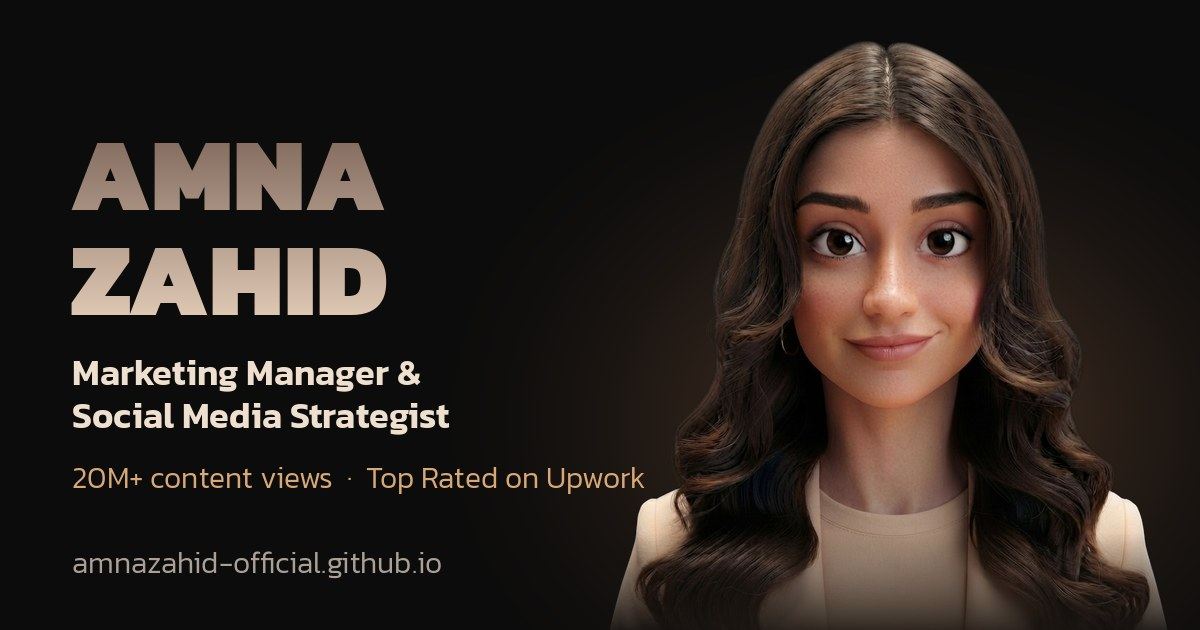
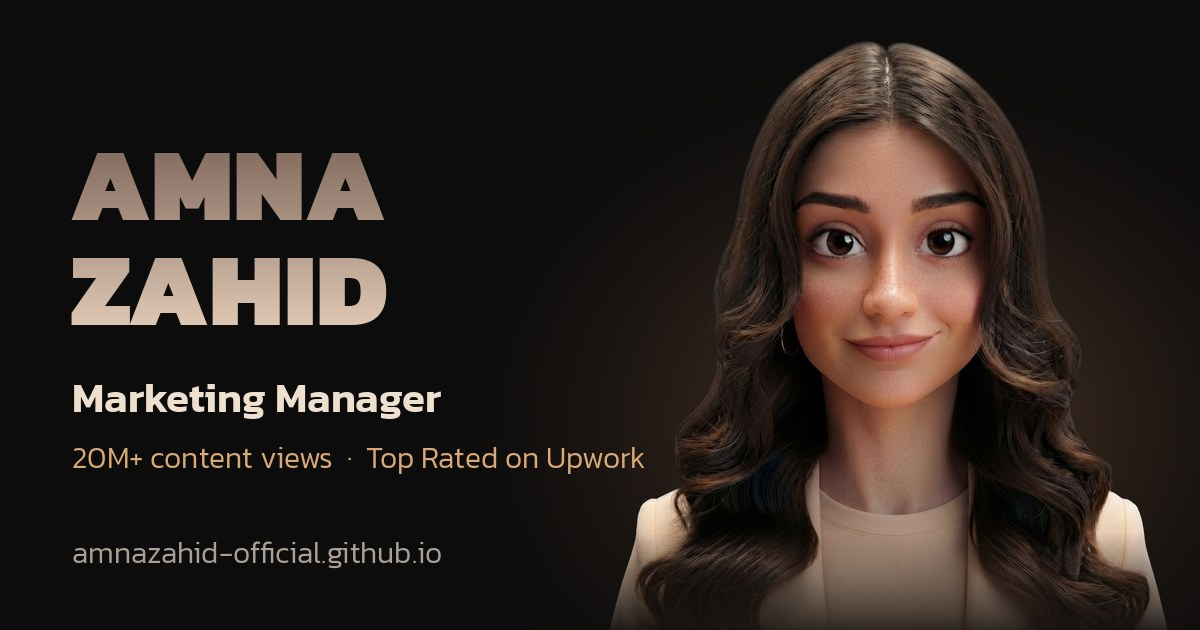
Add files via upload

diff --git a/index.html b/index.html
@@ -2,11 +2,11 @@
 <html lang="en">
 <head>
 <meta charset="utf-8">
-<meta http-equiv="Content-Security-Policy" content="default-src 'none'; script-src 'sha256-1I0uAlWUaR2QZERYKp/Zd4XrJaCDEXUQQWTJ8vAlCd8=' https://www.googletagmanager.com https://www.clarity.ms https://*.clarity.ms; style-src 'self' 'unsafe-inline'; img-src 'self' data: blob: https://*.google-analytics.com https://www.googletagmanager.com https://*.clarity.ms https://c.bing.com; media-src 'self' data: blob:; font-src 'self' data:; connect-src https://formspree.io https://*.google-analytics.com https://*.analytics.google.com https://www.googletagmanager.com https://*.clarity.ms https://c.bing.com; form-action https://formspree.io; base-uri 'none'; object-src 'none'; manifest-src 'self'; upgrade-insecure-requests">
+<meta http-equiv="Content-Security-Policy" content="default-src 'none'; script-src 'sha256-Y0BWoqDh/VLHuUh14hzEaY0t2KPYEmKasSNTJizVwv0=' https://www.googletagmanager.com https://www.clarity.ms https://*.clarity.ms; style-src 'self' 'unsafe-inline'; img-src 'self' data: blob: https://*.google-analytics.com https://www.googletagmanager.com https://*.clarity.ms https://c.bing.com; media-src 'self' data: blob:; font-src 'self' data:; connect-src https://formspree.io https://*.google-analytics.com https://*.analytics.google.com https://www.googletagmanager.com https://*.clarity.ms https://c.bing.com; form-action https://formspree.io; base-uri 'none'; object-src 'none'; manifest-src 'self'; upgrade-insecure-requests">
 <meta name="referrer" content="strict-origin-when-cross-origin">
 <meta name="viewport" content="width=device-width, initial-scale=1, viewport-fit=cover">
-<title>Amna Zahid | Social Media Marketing Manager &amp; Strategist</title>
-<meta name="description" content="Amna Zahid is a social media marketing manager helping brands across the US and Asia turn reach into ROI: Instagram growth, viral short-form video, LinkedIn personal branding, and lead generation funnels. 20M+ content views, Top Rated on Upwork. Book a free consultation.">
+<title>Amna Zahid | Marketing Manager &amp; Sales Specialist</title>
+<meta name="description" content="Amna Zahid is a marketing manager and sales specialist helping brands, founders, and B2B teams across the US, Europe, and Asia turn reach into revenue: social media marketing, short-form video, Meta ads, email marketing, sales outreach, HubSpot sales funnels, CRM management, and lead generation. 20M+ content views, Top Rated on Upwork.">
 <meta name="author" content="Amna Zahid">
 <meta name="robots" content="index, follow, max-image-preview:large">
 <link rel="canonical" href="https://amnazahid-official.github.io/">
@@ -15,23 +15,23 @@
 <link rel="apple-touch-icon" href="favicon.png">
 <meta property="og:type" content="profile">
 <meta property="og:site_name" content="Amna Zahid">
-<meta property="og:title" content="Amna Zahid | Social Media Marketing Manager &amp; Strategist">
-<meta property="og:description" content="I turn reach into ROI: growth strategy, viral short-form video, LinkedIn founder branding, and lead generation. 20M+ content views. Book a free consultation.">
+<meta property="og:title" content="Amna Zahid | Marketing Manager &amp; Sales Specialist">
+<meta property="og:description" content="Marketing manager and sales specialist turning reach into revenue: social media, short-form video, Meta ads, email marketing, sales outreach, HubSpot funnels, and lead generation. 20M+ content views. Book a free consultation.">
 <meta property="og:url" content="https://amnazahid-official.github.io/">
 <meta property="og:image" content="https://amnazahid-official.github.io/og-image.jpg">
 <meta property="og:image:width" content="1200">
 <meta property="og:image:height" content="630">
-<meta property="og:image:alt" content="Amna Zahid, Marketing Manager: 20M+ content views">
+<meta property="og:image:alt" content="Amna Zahid, Marketing Manager: 20M+ content views, Top Rated on Upwork">
 <meta property="profile:first_name" content="Amna">
 <meta property="profile:last_name" content="Zahid">
 <meta name="twitter:card" content="summary_large_image">
-<meta name="twitter:title" content="Amna Zahid | Social Media Marketing Manager &amp; Strategist">
-<meta name="twitter:description" content="I turn reach into ROI: growth strategy, viral short-form video, LinkedIn founder branding, and lead generation. 20M+ content views.">
+<meta name="twitter:title" content="Amna Zahid | Marketing Manager &amp; Sales Specialist">
+<meta name="twitter:description" content="Marketing manager and sales specialist turning reach into revenue: social media, short-form video, Meta ads, email marketing, sales outreach, HubSpot funnels, and lead generation. 20M+ content views. Book a free consultation.">
 <meta name="twitter:image" content="https://amnazahid-official.github.io/og-image.jpg">
 <script type="application/ld+json">
 {"@context":"https://schema.org","@graph":[
- {"@type":"Person","@id":"https://amnazahid-official.github.io/#amna","name":"Amna Zahid","jobTitle":"Social Media Marketing Manager","alternateName":"Amna Zahid Marketing","description":"Marketing manager and social media strategist helping brands across the US and Asia turn reach into ROI.","url":"https://amnazahid-official.github.io/","image":"https://amnazahid-official.github.io/og-image.jpg","address":{"@type":"PostalAddress","addressCountry":"PK"},"sameAs":["https://www.linkedin.com/in/-amnazahid","https://www.upwork.com/freelancers/~013aa8f97419e88af4"],"knowsAbout":["Social media marketing","Instagram growth","LinkedIn strategy","Personal branding","Short-form video","Content strategy","Copywriting","Brand positioning","Meta Ads","Email marketing","Sales outreach","Lead generation","Influencer marketing","UI/UX design","Marketing analytics"]},
- {"@type":"ProfessionalService","@id":"https://amnazahid-official.github.io/#service","name":"Amna Zahid Marketing","url":"https://amnazahid-official.github.io/","image":"https://amnazahid-official.github.io/og-image.jpg","founder":{"@id":"https://amnazahid-official.github.io/#amna"},"areaServed":["United States","Europe","Asia"],"address":{"@type":"PostalAddress","addressCountry":"PK"},"sameAs":["https://www.linkedin.com/in/-amnazahid","https://www.upwork.com/freelancers/~013aa8f97419e88af4"],
+ {"@type":"Person","@id":"https://amnazahid-official.github.io/#amna","name":"Amna Zahid","jobTitle":"Marketing Manager and Sales Specialist","alternateName":"Amna Zahid Marketing","description":"Marketing manager and sales specialist helping brands across the US, Europe, and Asia turn reach into revenue.","url":"https://amnazahid-official.github.io/","image":"https://amnazahid-official.github.io/og-image.jpg","address":{"@type":"PostalAddress","addressCountry":"PK"},"sameAs":["https://www.linkedin.com/in/-amnazahid","https://www.upwork.com/freelancers/~013aa8f97419e88af4"],"knowsAbout":["Social media marketing", "Instagram growth", "LinkedIn strategy", "Personal branding", "Short-form video", "Content strategy", "Copywriting", "Brand positioning", "Meta Ads", "Email marketing", "Sales outreach", "Lead generation", "Influencer marketing", "UI/UX design", "Marketing analytics", "Marketing management", "Sales", "HubSpot CRM", "CRM management", "Appointment setting", "Sales funnels"]},
+ {"@type":"ProfessionalService","@id":"https://amnazahid-official.github.io/#service","name":"Amna Zahid Marketing & Sales","url":"https://amnazahid-official.github.io/","image":"https://amnazahid-official.github.io/og-image.jpg","founder":{"@id":"https://amnazahid-official.github.io/#amna"},"areaServed":["United States","Europe","Asia"],"address":{"@type":"PostalAddress","addressCountry":"PK"},"sameAs":["https://www.linkedin.com/in/-amnazahid","https://www.upwork.com/freelancers/~013aa8f97419e88af4"],
   "hasOfferCatalog":{"@type":"OfferCatalog","name":"Marketing services","itemListElement":[
    {"@type":"Offer","itemOffered":{"@type":"Service","name":"Custom growth strategy"}},
    {"@type":"Offer","itemOffered":{"@type":"Service","name":"Viral content creation"}},
@@ -510,7 +510,7 @@ footer{padding-right:calc(1.5rem + 84px)!important}
     <a href="#about">About</a><a href="https://amnazahid-official.github.io/services.html">Services</a><a href="#work">Results</a><a href="https://amnazahid-official.github.io/showcase.html">Showcase</a><a href="#contact">Contact</a>
   </nav>
   <div class="hero-h-wrap" data-fade style="--fdl:.15s;--fy:40px">
-    <h1 class="hero-h grad">Hi, i&rsquo;m amna<span class="sr-only"> Zahid, marketing manager and social media strategist</span></h1>
+    <h1 class="hero-h grad">Hi, i&rsquo;m amna<span class="sr-only"> Zahid, marketing manager and sales specialist</span></h1>
   </div>
   <div class="portrait">
     <div data-fade style="--fdl:.6s"><div class="magnet" id="magnet"><div class="tilt" id="tilt"><div class="float"><span class="glow" aria-hidden="true"></span><img src="assets/avatar.webp" alt="3D avatar of Amna Zahid" width="720" height="765"></div></div></div></div>
@@ -532,7 +532,7 @@ footer{padding-right:calc(1.5rem + 84px)!important}
   <div class="about-inner">
     <div class="about-text">
       <h2 class="big-h grad" data-fade style="--fy:40px">About me</h2>
-      <p class="reveal" id="reveal">As a social media marketing manager, I convert reach into ROI: scroll-stopping content at the top of the funnel, trust in the middle, and qualified pipeline at the bottom. Across the US and Asia, I&rsquo;ve turned founders into trusted voices and products into talked-about names, with 20M+ organic views and audiences that turn into revenue. Every account gets the same proven engine: diagnose, position, build a repeatable format, route the attention, then measure and cut whatever doesn&rsquo;t earn its slot. Stop guessing at social media. Let&rsquo;s build you an audience that actually buys.</p>
+      <p class="reveal" id="reveal">As a marketing manager and sales specialist, I convert reach into ROI: scroll-stopping content at the top of the funnel, trust in the middle, and qualified pipeline at the bottom. Across the US and Asia, I&rsquo;ve turned founders into trusted voices and products into talked-about names, with 20M+ organic views and audiences that turn into revenue. Every account gets the same proven engine: diagnose, position, build a repeatable format, route the attention, then measure and cut whatever doesn&rsquo;t earn its slot. Stop guessing at social media. Let&rsquo;s build you an audience that actually buys.</p>
     </div>
     <a class="btn-contact" href="#contact">Contact me</a>
   </div>
@@ -637,7 +637,7 @@ footer{padding-right:calc(1.5rem + 84px)!important}
 <!-- CLIENTS -->
 <section class="clients" id="clients">
   <h2 class="big-h grad" data-fade style="--fy:40px">Clients</h2>
-  <p class="lead" data-fade>Social media marketing for US and European clients, Pakistani national media, and long-running freelance platforms. Different markets, different buying cultures, same underlying method.</p>
+  <p class="lead" data-fade>Marketing and sales for US and European clients, Pakistani national media, and long-running freelance platforms. Different markets, different buying cultures, same underlying method.</p>
   <div class="logo-group" data-fade>
     <h3>International: United States and Europe</h3>
     <div class="logos">
@@ -720,7 +720,7 @@ footer{padding-right:calc(1.5rem + 84px)!important}
     <a href="privacy.html">Privacy</a>
     <a href="#" id="ccLink" hidden>Cookie settings</a>
   </div>
-  <small>Amna Zahid, Marketing Manager &middot; Top Rated on Upwork &middot; &copy; 2026</small>
+  <small>Amna Zahid, Marketing Manager &amp; Sales Specialist &middot; Top Rated on Upwork &middot; &copy; 2026</small>
 </footer>
 </main>
 <div class="cc" id="cc" role="dialog" aria-label="Cookie preferences" hidden>
@@ -946,7 +946,7 @@ footer{padding-right:calc(1.5rem + 84px)!important}
       leads:{t:"Amna builds full-funnel lead generation: content that earns attention (TOFU), trust-building content (MOFU), and clear calls to action that turn interest into inquiries and sales (BOFU). She also runs Meta Ads and email marketing.",c:['Results','Book a free consultation']},
       process:{t:"Her method is simple: diagnose, position, build a repeatable format, route the attention, then measure and cut whatever doesn't earn its slot.\n\nIt starts with a free consultation, then a tailored strategy, content production, and monthly reporting.",c:['Book a free consultation','Services']},
       time:{t:"Amna works remotely with clients across the US, Europe, and Asia. Everything runs asynchronously, with written briefs, scheduled content, and reports you can read without a call, so time zones are never a problem.",c:['Book a free consultation','Contact options']},
-      about:{t:"Amna Zahid is a social media marketing manager and strategist who converts reach into ROI. She has worked with brands, founders, and media across the US, Europe, and Asia, generated 20M+ content views, and is Top Rated on Upwork.",c:['Services','Results','Book a free consultation']},
+      about:{t:"Amna Zahid is a marketing manager and sales specialist who converts reach into ROI. She has worked with brands, founders, and media across the US, Europe, and Asia, generated 20M+ content views, and is Top Rated on Upwork.",c:['Services','Results','Book a free consultation']},
       guarantee:{t:"Amna doesn't promise specific numbers, because honest results depend on your niche, offer, and consistency. What she does guarantee is a clear strategy, consistent execution, and transparent reporting. Her past results are a good guide to what's possible.",c:['Results','Book a free consultation']},
       thanks:{t:"You're welcome! Anything else I can help with?",c:MAIN},
       fallback:{t:"I'm not sure I have the answer to that one, but Amna can help directly. You can book a free consultation, or leave your details and she'll get back to you.",a:'book',c:['Leave my details','Contact options','Services']}

diff --git a/services.html b/services.html
@@ -208,7 +208,7 @@ footer small{color:var(--dim)}
   <h1 class="big grad" data-split>Services</h1>
   <p class="lead hero-lead" data-r style="--d:200ms">Marketing, sales, and business administration support for brands, founders, and growing teams across the US, Europe, and Asia.</p>
 </header>
-<div class="marquee" aria-label="Tools I work with"><div class="mq-track"><span>Meta Business Suite</span><span>Metricool</span><span>Mailchimp</span><span>ZOHO</span><span>ManyChat</span><span>Adobe Premiere Pro</span><span>Adobe After Effects</span><span>Canva</span><span>CapCut</span><span>AI tools</span><span>HubSpot</span><span>LinkedIn Sales Navigator</span><span>Dripify</span><span>Wiza</span><span>RingCentral</span><span>ClickUp</span><span>Notion</span><span>Karbon</span><span>Slack</span><span>Microsoft Office</span><span>Google Workspace</span><span>Adobe Photoshop</span><span>Adobe Illustrator</span><span>Instagram</span><span>LinkedIn</span><span aria-hidden="true">Meta Business Suite</span><span aria-hidden="true">Metricool</span><span aria-hidden="true">Mailchimp</span><span aria-hidden="true">ZOHO</span><span aria-hidden="true">ManyChat</span><span aria-hidden="true">Adobe Premiere Pro</span><span aria-hidden="true">Adobe After Effects</span><span aria-hidden="true">Canva</span><span aria-hidden="true">CapCut</span><span aria-hidden="true">AI tools</span><span aria-hidden="true">HubSpot</span><span aria-hidden="true">LinkedIn Sales Navigator</span><span aria-hidden="true">Dripify</span><span aria-hidden="true">Wiza</span><span aria-hidden="true">RingCentral</span><span aria-hidden="true">ClickUp</span><span aria-hidden="true">Notion</span><span aria-hidden="true">Karbon</span><span aria-hidden="true">Slack</span><span aria-hidden="true">Microsoft Office</span><span aria-hidden="true">Google Workspace</span><span aria-hidden="true">Adobe Photoshop</span><span aria-hidden="true">Adobe Illustrator</span><span aria-hidden="true">Instagram</span><span aria-hidden="true">LinkedIn</span></div></div>
+<div class="marquee" aria-label="Tools I work with"><div class="mq-track"><span>HubSpot</span><span>Meta Business Suite</span><span>Metricool</span><span>Mailchimp</span><span>ZOHO</span><span>ManyChat</span><span>Adobe Premiere Pro</span><span>Adobe After Effects</span><span>Canva</span><span>CapCut</span><span>AI tools</span><span>LinkedIn Sales Navigator</span><span>Dripify</span><span>Wiza</span><span>RingCentral</span><span>ClickUp</span><span>Notion</span><span>Karbon</span><span>Slack</span><span>Microsoft Office</span><span>Google Workspace</span><span>Adobe Photoshop</span><span>Adobe Illustrator</span><span>Instagram</span><span>LinkedIn</span><span aria-hidden="true">HubSpot</span><span aria-hidden="true">Meta Business Suite</span><span aria-hidden="true">Metricool</span><span aria-hidden="true">Mailchimp</span><span aria-hidden="true">ZOHO</span><span aria-hidden="true">ManyChat</span><span aria-hidden="true">Adobe Premiere Pro</span><span aria-hidden="true">Adobe After Effects</span><span aria-hidden="true">Canva</span><span aria-hidden="true">CapCut</span><span aria-hidden="true">AI tools</span><span aria-hidden="true">LinkedIn Sales Navigator</span><span aria-hidden="true">Dripify</span><span aria-hidden="true">Wiza</span><span aria-hidden="true">RingCentral</span><span aria-hidden="true">ClickUp</span><span aria-hidden="true">Notion</span><span aria-hidden="true">Karbon</span><span aria-hidden="true">Slack</span><span aria-hidden="true">Microsoft Office</span><span aria-hidden="true">Google Workspace</span><span aria-hidden="true">Adobe Photoshop</span><span aria-hidden="true">Adobe Illustrator</span><span aria-hidden="true">Instagram</span><span aria-hidden="true">LinkedIn</span></div></div>
 <div class="tabs-wrap"><div class="tabs" role="navigation" aria-label="Service categories"><a href="#marketing" data-tab="marketing">Marketing</a><a href="#sales" data-tab="sales">Sales</a><a href="#admin" data-tab="admin">Business administration</a><a href="#branding" data-tab="branding">Branding and creative</a><span class="ind" aria-hidden="true"></span></div></div>
 <div class="stack">
 <div class="cw" id="marketing" style="--i:0">
@@ -217,9 +217,9 @@ footer small{color:var(--dim)}
     <div class="cat-num" aria-hidden="true">01</div>
     <h2 id="h-marketing">Marketing</h2>
     <p class="cat-tag">Growth strategy, content, and campaigns that turn attention into revenue.</p>
-    <div class="tools"><b>Tools</b><span>Meta Business Suite</span><span>Metricool</span><span>Mailchimp</span><span>ZOHO</span><span>ManyChat</span><span>Adobe Premiere Pro</span><span>Adobe After Effects</span><span>Canva</span><span>CapCut</span><span>AI tools</span></div>
+    <div class="tools"><b>Tools</b><span>HubSpot</span><span>Meta Business Suite</span><span>Metricool</span><span>Mailchimp</span><span>ZOHO</span><span>ManyChat</span><span>Adobe Premiere Pro</span><span>Adobe After Effects</span><span>Canva</span><span>CapCut</span><span>AI tools</span></div>
   </div>
-  <ul class="items"><li data-r style="--d:0ms"><h3>Social media marketing</h3><p>Strategy, content calendars, posting, and community management</p></li><li data-r style="--d:60ms"><h3>Short-form video</h3><p>Reels and TikToks with scroll-stopping hooks and sharp edits</p></li><li data-r style="--d:120ms"><h3>Email marketing</h3><p>Newsletters, nurture flows, and bulk campaigns in Mailchimp and ZOHO</p></li><li data-r style="--d:180ms"><h3>Paid ads</h3><p>Meta ads setup, targeting, creatives, and optimization</p></li><li data-r style="--d:240ms"><h3>Content marketing and SEO</h3><p>Keyword research, blogs, carousels, and SEO copywriting</p></li><li data-r style="--d:300ms"><h3>Influencer marketing</h3><p>Creator outreach, collaborations, and media kits</p></li><li data-r style="--d:360ms"><h3>Instagram account scaling</h3><p>Profile optimization, viral Reels, and organic follower growth</p></li><li data-r style="--d:420ms"><h3>YouTube channel scaling</h3><p>Channel setup, search-optimized videos, and monetization</p></li><li data-r style="--d:480ms"><h3>Analytics and reporting</h3><p>Monthly reports, KPIs, and clear next steps</p></li></ul>
+  <ul class="items"><li data-r style="--d:0ms"><h3>Social media marketing</h3><p>Competitor analysis, strategy, content calendars, posting, and community management</p></li><li data-r style="--d:60ms"><h3>Short-form video</h3><p>Reels and TikToks with scroll-stopping hooks and sharp edits</p></li><li data-r style="--d:120ms"><h3>Email marketing</h3><p>Newsletters, nurture flows, and bulk campaigns in HubSpot and ZOHO</p></li><li data-r style="--d:180ms"><h3>Paid ads</h3><p>Meta ads setup, targeting, creatives, and optimization</p></li><li data-r style="--d:240ms"><h3>Content marketing and SEO</h3><p>Keyword research, blogs, carousels, and SEO copywriting</p></li><li data-r style="--d:300ms"><h3>Influencer marketing</h3><p>Creator outreach, collaborations, and media kits</p></li><li data-r style="--d:360ms"><h3>Instagram account scaling</h3><p>Profile optimization, viral Reels, and organic follower growth</p></li><li data-r style="--d:420ms"><h3>YouTube channel scaling</h3><p>Channel setup, search-optimized videos, and monetization</p></li><li data-r style="--d:480ms"><h3>Analytics and reporting</h3><p>Monthly reports, KPIs, and clear next steps</p></li></ul>
 </section>
 </div>
 <div class="cw" id="sales" style="--i:1">
